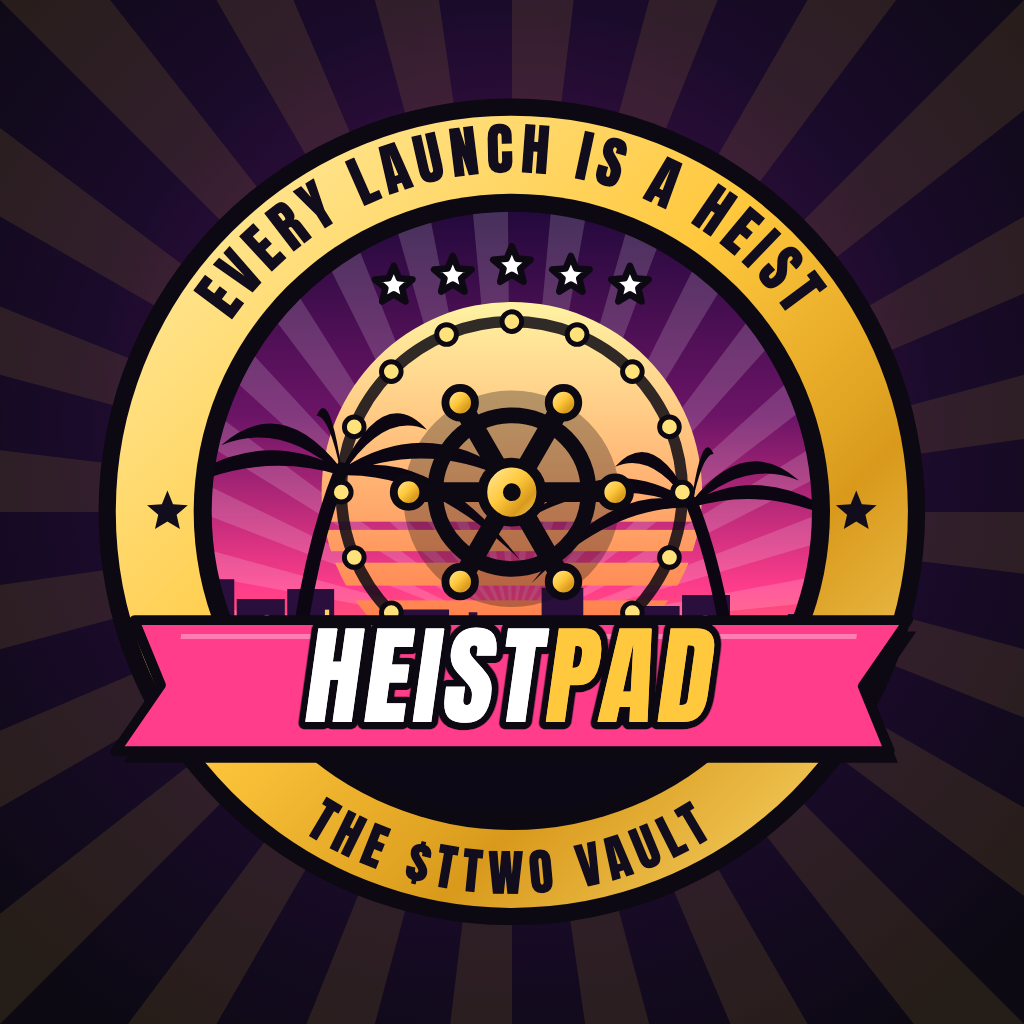
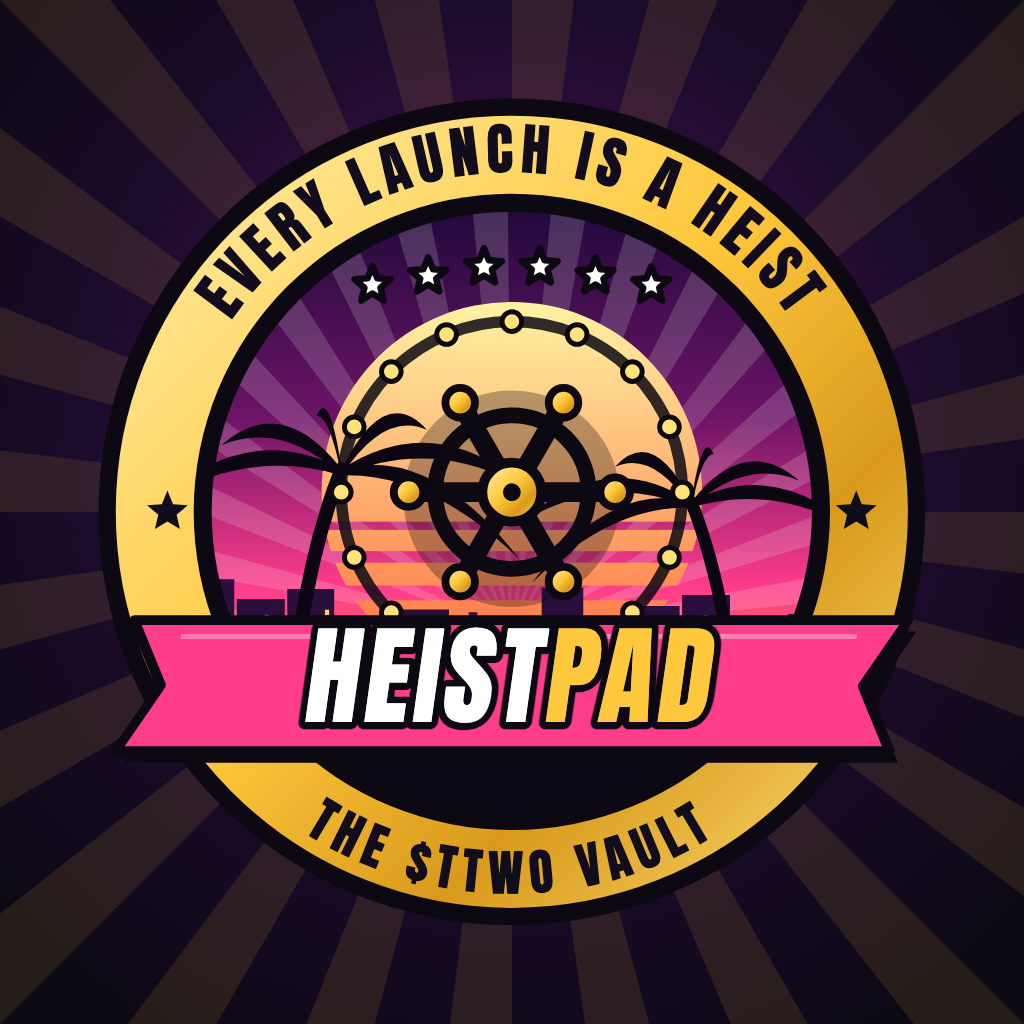
Six-star wanted level across site and brand art

Changed region(s): [[0.3438, 0.2188, 0.6562, 0.3125]]

diff --git a/assets/brand/art.html b/assets/brand/art.html
@@ -63,7 +63,7 @@ function scene(W, H, hy, seed = 4) {
 const grain = (W, H) => `<filter id="n"><feTurbulence type="fractalNoise" baseFrequency=".9" numOctaves="2" stitchTiles="stitch"/><feColorMatrix values="0 0 0 0 1  0 0 0 0 1  0 0 0 0 1  0 0 0 .05 0"/></filter><rect width="${W}" height="${H}" filter="url(#n)"/>`;
 const scan = (W, H) => `<g opacity=".08">${Array.from({ length: Math.ceil(H / 6) }, (_, i) => `<rect y="${i * 6}" width="${W}" height="2" fill="#000"/>`).join('')}</g>`;
 const chip = (x, y, label, val, col) => `<g transform="translate(${x} ${y})"><rect width="${label.length * 11 + val.length * 13 + 52}" height="46" rx="12" fill="#0c0913" fill-opacity=".85" stroke="${col}" stroke-width="2"/><text x="16" y="30" ${INTER} font-weight="800" font-size="16" letter-spacing="2" fill="${col}">${label}</text><text x="${label.length * 11 + 30}" y="31" font-family="JetBrains Mono, monospace" font-weight="700" font-size="20" fill="#fff">${val}</text></g>`;
-const starsRow = (x, y, n, r, on = 5) => Array.from({ length: n }, (_, i) => B.star(x + i * r * 2.4, y, r, i < on ? '#fff' : 'rgba(0,0,0,.5)', '#0c0913', r * 0.28)).join('');
+const starsRow = (x, y, n, r, on = 6) => Array.from({ length: n }, (_, i) => B.star(x + i * r * 2.4, y, r, i < on ? '#fff' : 'rgba(0,0,0,.5)', '#0c0913', r * 0.28)).join('');
 
 const ASSETS = {
   emblem: { w: 1024, h: 1024, svg: () => B.emblem() },
@@ -85,7 +85,7 @@ const ASSETS = {
   poster: { w: 1080, h: 1350, svg: () => { const W = 1080, H = 1350; return `<svg xmlns="http://www.w3.org/2000/svg" viewBox="0 0 ${W} ${H}">${scene(W, H, 900, 12)}
     ${B.palm(60, 1400, 760, false, '#0a0510')}${B.palm(1040, 1400, 700, true, '#0a0510')}
     <rect x="30" y="30" width="${W - 60}" height="${H - 60}" fill="none" stroke="#0c0913" stroke-width="16"/><rect x="48" y="48" width="${W - 96}" height="${H - 96}" fill="none" stroke="#fff" stroke-width="4"/>
-    <g transform="translate(540 120)">${starsRow(-150, 0, 5, 26)}</g>
+    <g transform="translate(540 120)">${starsRow(-156, 0, 6, 26)}</g>
     ${T(540, 300, 'EVERY BUSINESS', 132, '#fff', { anchor: 'middle', stroke: '#0c0913', sw: 18, ls: 2, tr: 'skewX(-8) translate(40 0)' })}
     ${T(540, 440, 'IS A <tspan fill="#ff3d8b">JOB.</tspan>', 150, '#fff', { anchor: 'middle', stroke: '#0c0913', sw: 20, ls: 2, tr: 'skewX(-8) translate(60 0)' })}
     <g transform="translate(330 500) scale(.82)">${inner(B.emblem())}</g>
@@ -95,7 +95,7 @@ const ASSETS = {
     ${scan(W, H)}${grain(W, H)}</svg>`; } },
   story: { w: 1080, h: 1920, svg: () => { const W = 1080, H = 1920; return `<svg xmlns="http://www.w3.org/2000/svg" viewBox="0 0 ${W} ${H}">${scene(W, H, 1320, 21)}
     ${B.palm(40, 1980, 1000, false, '#0a0510')}${B.palm(1050, 1980, 920, true, '#0a0510')}
-    <g transform="translate(540 230)">${starsRow(-150, 0, 5, 26)}</g>
+    <g transform="translate(540 230)">${starsRow(-156, 0, 6, 26)}</g>
     ${T(540, 420, 'HOLD <tspan fill="#ffc83d">1%.</tspan>', 170, '#fff', { anchor: 'middle', stroke: '#0c0913', sw: 22, ls: 2, tr: 'skewX(-8) translate(60 0)' })}
     ${T(540, 580, 'PICK YOUR', 150, '#fff', { anchor: 'middle', stroke: '#0c0913', sw: 20, ls: 2, tr: 'skewX(-8) translate(80 0)' })}
     ${T(540, 740, '<tspan fill="#ff3d8b">HEISTS.</tspan>', 170, '#fff', { anchor: 'middle', stroke: '#0c0913', sw: 22, ls: 2, tr: 'skewX(-8) translate(100 0)' })}

diff --git a/app.js b/app.js
@@ -47,7 +47,7 @@
   const fmt$ = (n) => n >= 1e9 ? `$${(n / 1e9).toFixed(1)}B` : n >= 1e6 ? `$${(n / 1e6).toFixed(2)}M` : n >= 1e3 ? `$${(n / 1e3).toFixed(1)}k` : `$${n.toFixed(0)}`;
   const shortCa = (c) => `${c.slice(0, 6)}…${c.slice(-6)}`;
   const ago = (t) => { const m = Math.max(1, Math.round((Date.now() - t) / 60000)); return m < 60 ? `${m}m` : `${Math.round(m / 60)}h`; };
-  const stars = (vol) => { const n = Math.min(5, Math.max(1, Math.ceil(vol / 9))); return `<span class="stars" title="Wanted level ${n}/5">${[1, 2, 3, 4, 5].map((i) => `<i class="${i <= n ? 'on' : ''}"></i>`).join('')}</span>`; };
+  const stars = (vol) => { const n = Math.min(6, Math.max(1, Math.ceil(vol / 7.5))); return `<span class="stars" title="Wanted level ${n}/6">${[1, 2, 3, 4, 5, 6].map((i) => `<i class="${i <= n ? 'on' : ''}"></i>`).join('')}</span>`; };
   const regionName = (rid) => REGIONS.find((r) => r.id === rid).name;
   const coins = () => BIZ.filter((b) => b.coin);
   const esc = (s) => String(s).replace(/[&<>"']/g, (c) => ({ '&': '&amp;', '<': '&lt;', '>': '&gt;', '"': '&quot;', "'": '&#39;' }[c]));
@@ -328,12 +328,12 @@
   });
 
   let lastStars = 0;
-  const heat = () => Math.min(5, Math.max(1, Math.ceil(coins().reduce((a, b) => a + b.coin.vol, 0) / 70)));
+  const heat = () => Math.min(6, Math.max(1, Math.ceil(coins().reduce((a, b) => a + b.coin.vol, 0) / 70)));
   function hud(bump) {
     const total = coins().reduce((a, b) => a + b.coin.cap, 0);
     const cash = $('#hudCash'); cash.textContent = '$' + Math.round(total).toLocaleString('en-US');
     if (bump) { cash.classList.add('bump'); setTimeout(() => cash.classList.remove('bump'), 200); }
-    const n = heat(); $('#hudStars').innerHTML = [1, 2, 3, 4, 5].map((i) => `<i class="${i <= n ? 'on' : ''}"></i>`).join('');
+    const n = heat(); $('#hudStars').innerHTML = [1, 2, 3, 4, 5, 6].map((i) => `<i class="${i <= n ? 'on' : ''}"></i>`).join('');
     if (lastStars && n > lastStars) { flashStars(); sfx.star(); }
     lastStars = n;
     $('#stCap').textContent = fmt$(total);

diff --git a/index.html b/index.html
@@ -8,7 +8,7 @@
 <link rel="preconnect" href="https://fonts.googleapis.com">
 <link href="https://fonts.googleapis.com/css2?family=Anton&family=Inter:wght@400;500;600;700;800&family=JetBrains+Mono:wght@500;700&display=swap" rel="stylesheet">
 <link href="https://unpkg.com/maplibre-gl@4.7.1/dist/maplibre-gl.css" rel="stylesheet">
-<link href="styles.css?v=11" rel="stylesheet">
+<link href="styles.css?v=12" rel="stylesheet">
 <link rel="icon" type="image/png" sizes="32x32" href="assets/brand/favicon-32.png">
 <link rel="apple-touch-icon" href="assets/brand/apple-touch-icon.png">
 <meta name="theme-color" content="#0c0913">
@@ -268,6 +268,6 @@
 <div class="toast" id="toast" role="status"></div>
 
 <script src="https://unpkg.com/maplibre-gl@4.7.1/dist/maplibre-gl.js"></script>
-<script src="app.js?v=6"></script>
+<script src="app.js?v=7"></script>
 </body>
 </html>

diff --git a/assets/brand/brand.js b/assets/brand/brand.js
@@ -79,7 +79,7 @@ ${star(46, 256, 13, '#120d1c')}${star(466, 256, 13, '#120d1c')}
 </g>
 <circle cx="256" cy="248" r="66" fill="#0c0913" opacity=".3"/>
 ${wheel(256, 244, 60, '#0c0913', 'url(#' + k + 'gold)')}
-${[0, 1, 2, 3, 4].map((i) => star(184 + i * 36, 106 + Math.abs(i - 2) * 6, 12, '#fff', '#0c0913', 4)).join('')}
+${[0, 1, 2, 3, 4, 5].map((i) => star(171 + i * 34, 104 + Math.abs(i - 2.5) * 5.5, 11.5, '#fff', '#0c0913', 4)).join('')}
 <g transform="translate(256 362) skewX(-8)">
   <path d="M-236 -40h472l-22 40 22 40h-472l22-40z" fill="#0c0913" transform="translate(6 7)"/>
   <path d="M-236 -40h472l-22 40 22 40h-472l22-40z" fill="#ff3d8b" stroke="#0c0913" stroke-width="6" stroke-linejoin="round"/>
